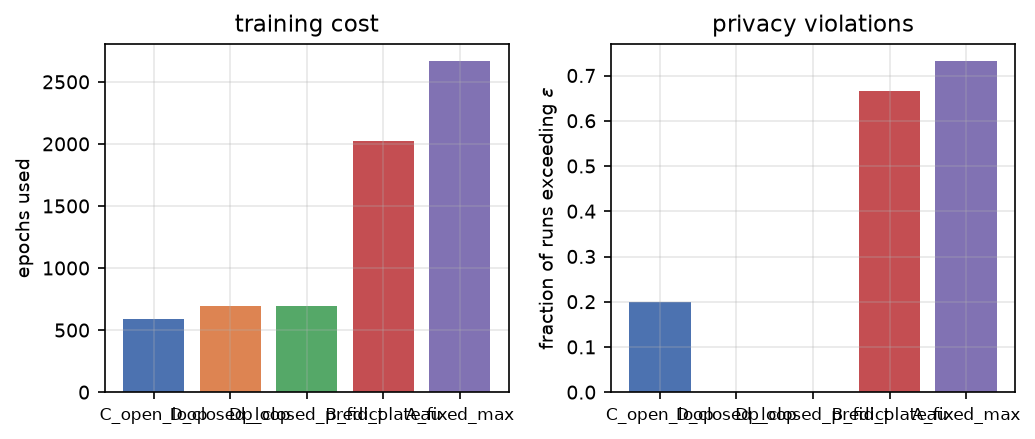
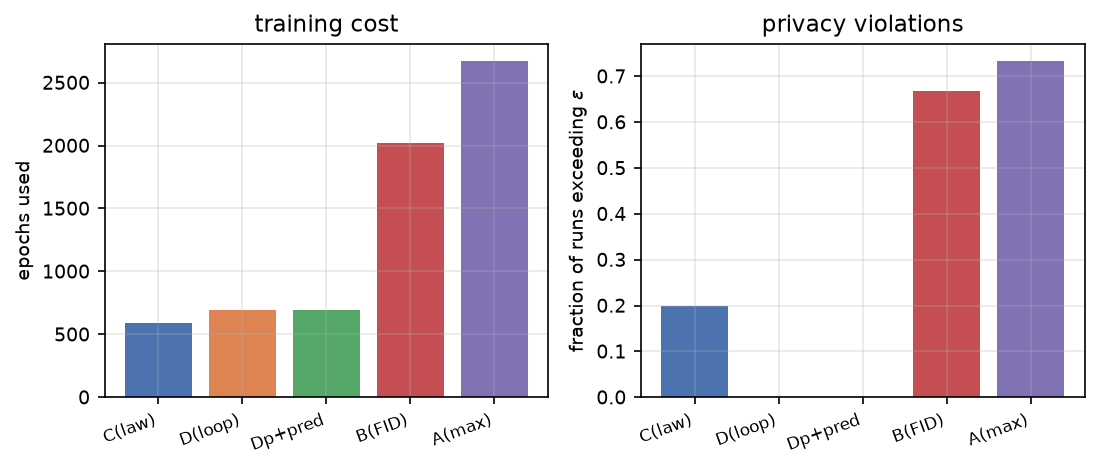
plot: 策略对比图标签可读（缩写+旋转）；docs: 别名/说明与最终数字对齐

Changed region(s): [[0.0, 0.0296, 0.9894, 0.9772]]

diff --git a/tools/plot.py b/tools/plot.py
@@ -278,16 +278,21 @@ def fig_stop_policy():
         print("[plot] 没有 stop_policy_summary.csv，跳过 fig_stop")
         return
     d = pd.read_csv(p)
-    fig, axes = plt.subplots(1, 2, figsize=(7.0, 3.0))
+    fig, axes = plt.subplots(1, 2, figsize=(7.4, 3.2))
     x = np.arange(len(d))
+    # 策略名较长，横排会互相压住 → 旋转 + 右对齐；缩写后更易读
+    short = [s.replace("_closed_predict", "+pred").replace("_closed_loop", "(loop)")
+             .replace("_fid_plateau", "(FID)").replace("_fixed_max", "(max)")
+             .replace("_open_loop", "(law)") for s in d["policy"]]
     axes[0].bar(x, d["epochs"], color=COLORS[: len(d)])
-    axes[0].set_xticks(x, d["policy"], fontsize=8)
     axes[0].set_ylabel("epochs used")
     axes[0].set_title("training cost")
     axes[1].bar(x, d["violation_rate"], color=COLORS[: len(d)])
-    axes[1].set_xticks(x, d["policy"], fontsize=8)
     axes[1].set_ylabel("fraction of runs exceeding $\\epsilon$")
     axes[1].set_title("privacy violations")
+    for ax in axes:
+        ax.set_xticks(x, short, fontsize=8, rotation=20, ha="right")
+        ax.grid(axis="y", alpha=0.3)
     _save(fig, "fig_stop_policies")
 
 

diff --git a/docs/OUTLINE.md b/docs/OUTLINE.md
@@ -15,16 +15,16 @@
 
 | # | 贡献 | 证据 | 状态 |
 |---|---|---|---|
-| C1 | **记忆化控制律**：`M = A0·(N/250)^-α · [1-exp(-(E/E50(N))^β)]`，`E50 = E50_0·(N/250)^γ`；α≈2.0、γ≈−0.66（epoch）/ +0.34（步数） | `results/law_fit.json`、`figs/fig_M_vs_E.png`、`figs/fig_amplitude.png` | 方向稳，拟合优度未达预声明 0.9（见下） |
+| C1 | **记忆化控制律**：`M = A0·(N/250)^-α · [1-exp(-(E/E50(N))^β)]`，`E50 = E50_0·(N/250)^γ`；α≈1.97、γ≈−0.69（epoch）/ +0.31（步数） | `results/law_fit.json`、`figs/fig_M_vs_E.png`、`figs/fig_amplitude.png` | 方向稳，拟合优度未达预声明 0.9（见下） |
 | C2 | **记忆感知早停 + 闭环兜底**：固定时刻表会因种子方差违约（实测 1/2 例），在线测 M 再停的违规率可压到 0 | `results/stop_policy_summary.csv`、`figs/fig_stop_policies.png`、`RESULTS.md` §5 | 强（这就是"为什么不能用固定公式"的实证） |
 | C3 | **可复现的测量协议**：FPR 校准的 τ、检出限、白化维不变性、EMA 采样 | `results/metrics_long.csv`、`docs/PRIVACY_AUDIT.md`、`docs/NOTES.md` §1.5/§2 | 强（三个数据集都跑通） |
 
 ## 必须诚实写出来的四件事（审稿人一定会问）
 
-1. **R² 没有 0.9**：预声明是 R²_log ≥ 0.9 且留一池化 ≥ 0.8；实测（种子均值口径）R²_log 0.765 / R²_lin 0.832 /
-   留一池化 0.472。单 seed 拟合能到 R²_lin 0.90，但那是运气好的那条曲线。已试 7 种函数形式（含"形状随 N 变"
+1. **R² 没有 0.9**：预声明是 R²_log ≥ 0.9 且留一池化 ≥ 0.8；实测（种子均值口径）R²_log 0.756 / R²_lin 0.848 /
+   留一池化 0.473（逐 run 口径 0.666）。单 seed 拟合能到 R²_lin 0.90，但那是运气好的那条曲线。已试 7 种函数形式（含"形状随 N 变"
    的 6 参数版，参数撞边界被否），瓶颈是**可测范围只覆盖 N ≤ 1000**。
-2. **γ 的符号与坐标要讲清**：epoch 坐标 γ≈−0.66（大 N 的曲线在 epoch 轴上"看起来更早起跳"是假象，
+2. **γ 的符号与坐标要讲清**：epoch 坐标 γ≈−0.69（大 N 的曲线在 epoch 轴上"看起来更早起跳"是假象，
    因为一个大 epoch 里步数更多）；换到**优化步**坐标 τ ∝ N^+0.34，与 Bonnaire et al. 的 τ_mem ∝ N 同向但更平。
 3. **度量有地板**：τ 按 FPR=0.5% 校准，一个都没记住时也有约 0.5% 的样本越线（512 张里 2–3 张）。
    ε ≤ 1% 的档位结论强度有限，交付档位从 ε=2% 起。
@@ -35,7 +35,7 @@
 
 ### Abstract（最后写，150 词）
 问题（合成影像可能复刻训练病例）→ 缺口（缺定量、可校准的规律）→ 做法（等步数网格 5 档 N × 3 seed，
-每 20000 步一点，校准 FPR 的近邻记忆率）→ 结果（α≈2.0、γ≈−0.66、E* 可使 M≤2% 且省 75% 训练）→
+每 20000 步一点，校准 FPR 的近邻记忆率）→ 结果（α≈1.97、γ≈−0.69、E* 可使 M≤2% 且省 75% 训练）→
 限制（可测范围 N≤1000；固定时刻表需闭环兜底）。
 
 ### 1. Introduction
